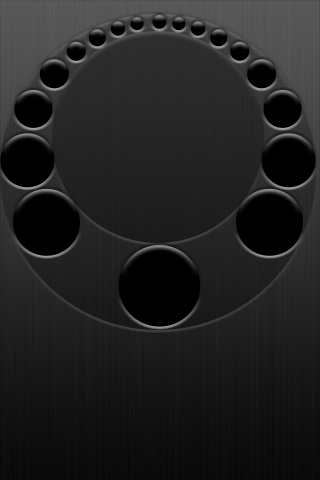
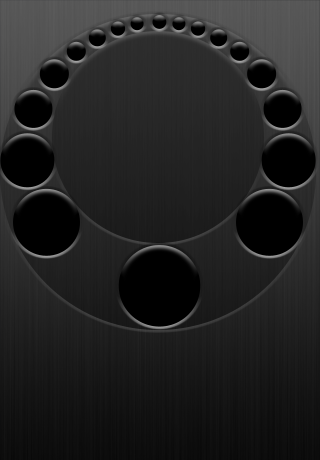
Start lighting lamps

diff --git a/MexicanWave/MEXWavingViewController.m b/MexicanWave/MEXWavingViewController.m
@@ -11,6 +11,9 @@
 #import "MEXCalibrationModel.h"
 #import "MEXWaveFxView.h"
 
+
+#define SIGN(x) ((x) < 0.0f ? -1.0f : 1.0f)
+
 @implementation MEXWavingViewController
 
 @synthesize waveView;
@@ -74,17 +77,41 @@
 
 - (void)viewDidAppear:(BOOL)animated {
     [super viewDidAppear:animated];
-    
-    [self.waveView setAllLampIntensities:1.0f animated:animated];
+
+    double delayInSeconds = 2.0;
+    dispatch_time_t popTime = dispatch_time(DISPATCH_TIME_NOW, delayInSeconds * NSEC_PER_SEC);
+    dispatch_after(popTime, dispatch_get_main_queue(), ^(void){
+        [self.waveView setAllLampIntensities:1.0f animated:animated];
+    });
+}
+
+- (CGPoint)positionOnProjectedCircleForAngle:(float)angle center:(CGPoint)center {
+    const float y = 132.0f*2.0f*(fabsf(angle) - 0.5f);
+    return CGPointMake(center.x + SIGN(angle)*sqrtf(132.0f*132.0f - y*y), center.y - y);
+}
+
+- (CGFloat)scaleFactorOnProjectedCircleForAngle:(float)fractionalAngle {
+    return (76.0f/128.0f) * (1.0f - fabsf(fractionalAngle)*0.86);    
 }
 
 - (void)viewDidLoad {
     [super viewDidLoad];
     [[NSNotificationCenter defaultCenter] addObserver:self selector:@selector(didWave:) name:MEXWaveModelDidWaveNotification object:nil];
-        
-    NSArray* locations = [NSArray arrayWithObjects:[NSValue valueWithCGPoint:CGPointMake(100, 100)],nil];
-    NSArray* scaleFactors = [NSArray arrayWithObjects:[NSNumber numberWithFloat:1.0f],nil];
+    
+    
+    NSArray* angles = [NSArray arrayWithObjects:[NSNumber numberWithFloat:0.0f],[NSNumber numberWithFloat:0.24f],[NSNumber numberWithFloat:0.48f],[NSNumber numberWithFloat:0.68f],[NSNumber numberWithFloat:0.815f],[NSNumber numberWithFloat:0.896f],[NSNumber numberWithFloat:0.945f],[NSNumber numberWithFloat:0.98f],[NSNumber numberWithFloat:0.995f],[NSNumber numberWithFloat:1.0f],[NSNumber numberWithFloat:-0.24f],[NSNumber numberWithFloat:-0.48f],[NSNumber numberWithFloat:-0.68f],[NSNumber numberWithFloat:-0.815f],[NSNumber numberWithFloat:-0.896f],[NSNumber numberWithFloat:-0.945f],[NSNumber numberWithFloat:-0.98f],[NSNumber numberWithFloat:-0.995f],nil];
 
+    
+    
+    NSMutableArray* locations = [[NSMutableArray alloc] initWithCapacity:angles.count]; 
+    NSMutableArray* scaleFactors = [[NSMutableArray alloc] initWithCapacity:angles.count]; 
+
+    for(NSUInteger angleIndex = 0; angleIndex < angles.count; angleIndex++) {
+        const float angle = [[angles objectAtIndex:angleIndex] floatValue];
+        [locations addObject:[NSValue valueWithCGPoint:[self positionOnProjectedCircleForAngle:angle center:CGPointMake(158.0f, 155.0f)]]];
+        [scaleFactors addObject:[NSNumber numberWithFloat:[self scaleFactorOnProjectedCircleForAngle:angle]]];
+    }
+    
     
     [self.waveView configureLampsWithLocations:locations scaleFactors:scaleFactors];    
     [self.waveView setAllLampIntensities:0 animated:NO];

diff --git a/MexicanWave/MEXLampView.m b/MexicanWave/MEXLampView.m
@@ -23,8 +23,10 @@
     NSAssert(self.subviews.count == 2, @"Bulb view or glow view or both not present in a lamp");
     bulbScale = newScale;
     UIView* bulbView = [self.subviews objectAtIndex:0];
-    const CGFloat affineScale = MIN(1, MAX(newScale, 0));
+    const CGFloat affineScale = MIN(1, MAX(bulbScale, 0));
     bulbView.transform = CGAffineTransformMakeScale(affineScale, affineScale);
+    UIView* glowView = [self.subviews objectAtIndex:1];
+    glowView.transform = CGAffineTransformMakeScale(affineScale, affineScale);
 }
 
 - (void)commonInitialization {

diff --git a/MexicanWave/MEXWaveFxView.m b/MexicanWave/MEXWaveFxView.m
@@ -42,7 +42,6 @@
         [oneNewLamp sizeToFit];
         oneNewLamp.center = [[locations objectAtIndex:lampIndex] CGPointValue];
         oneNewLamp.bulbScale = [[scaleFactors objectAtIndex:lampIndex] floatValue];
-        oneNewLamp.glowFraction = oneNewLamp.bulbScale;
         [self addSubview:oneNewLamp];
         [newLamps addObject:oneNewLamp];
         [oneNewLamp release];
